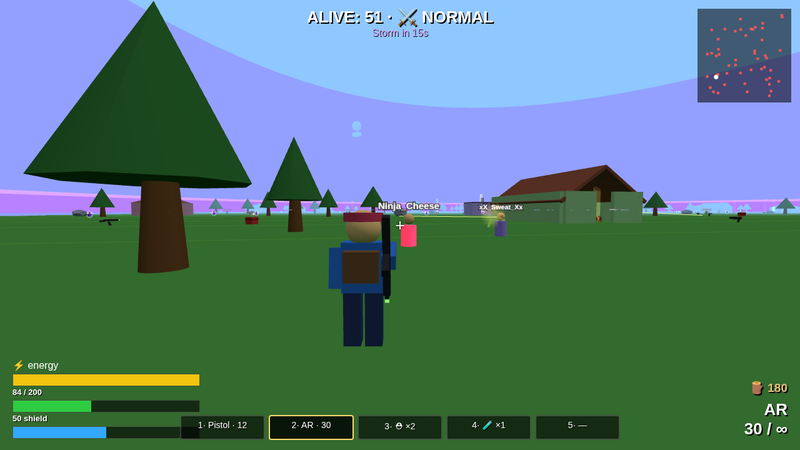
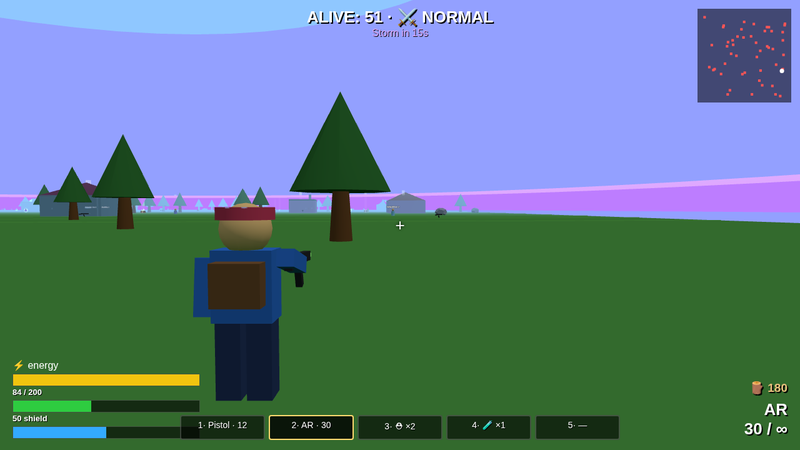
player now faces where he walks - the gun was pointing out of his back. added eyes and a cap peak so front is obvious, new card shot

diff --git a/games/fortnite-3d.html b/games/fortnite-3d.html
@@ -1186,9 +1186,16 @@ function buildPlayerChar() {
   const armL = limb(.19, .6, .19, shirt, true); armL.position.set(-.4, 1.48, 0);
   const armR = limb(.19, .6, .19, shirt, true); armR.position.set(.4, 1.48, 0);
   const head = new THREE.Mesh(new THREE.SphereGeometry(.27, 12, 10), skin); head.position.y = 1.78;
+  // two eyes and a cap peak so you can always tell which way he is looking
+  const eyeMat = new THREE.MeshLambertMaterial({ color: 0x22252b });
+  const eyeL = new THREE.Mesh(new THREE.BoxGeometry(.06, .07, .04), eyeMat); eyeL.position.set(-.1, .05, -.25);
+  const eyeR = new THREE.Mesh(new THREE.BoxGeometry(.06, .07, .04), eyeMat); eyeR.position.set(.1, .05, -.25);
+  head.add(eyeL, eyeR);
   const cap = new THREE.Mesh(new THREE.CylinderGeometry(.3, .3, .13, 12), new THREE.MeshLambertMaterial({ color: 0xd43f5e }));
   cap.position.y = 1.94;
-  const hand = new THREE.Object3D(); hand.position.set(0, -.6, .08); armR.add(hand);
+  const peak = new THREE.Mesh(new THREE.BoxGeometry(.3, .05, .18), new THREE.MeshLambertMaterial({ color: 0xbf3350 }));
+  peak.position.set(0, -.05, -.28); cap.add(peak);
+  const hand = new THREE.Object3D(); hand.position.set(0, -.62, 0); armR.add(hand);
   const chute = new THREE.Group();
   const canopy = new THREE.Mesh(new THREE.SphereGeometry(1.6, 16, 8, 0, 6.283, 0, 1.25),
     new THREE.MeshLambertMaterial({ color: 0xff8a3c, side: THREE.DoubleSide }));
@@ -1257,9 +1264,11 @@ function updatePlayerChar(dt, moving, sprint) {
   u.legR.rotation.x = grounded ? -sw : .25;
   const held = player.slots[player.cur];
   const aiming = held && held.type === 'weapon';
-  u.armR.rotation.x = aiming ? -1.35 : (grounded && moving ? -sw * .7 : -.1);
-  u.armL.rotation.x = grounded && moving ? sw * .7 : -.1;
-  u.head.rotation.x = clamp(-pitch * .3, -.5, .5);
+  // arms swing opposite the legs, and the gun arm reaches FORWARD (+X tilts a hanging limb
+  // toward where you are looking) and lifts with your aim
+  u.armR.rotation.x = aiming ? 1.35 + clamp(pitch, -.9, .9) : (grounded && moving ? sw * .7 : -.1);
+  u.armL.rotation.x = grounded && moving ? -sw * .7 : -.1;
+  u.head.rotation.x = clamp(pitch * .3, -.5, .5);
 }
 
 // whatever is in the active slot shows up in the hand, same as the first-person view
@@ -1273,12 +1282,17 @@ function updateHandItem() {
   handItem = null;
   if (!s) return;
   let m;
-  if (s.type === 'weapon') { m = buildGunModel(s.id); m.rotation.set(0, Math.PI / 2, 0); m.scale.setScalar(.85); }
+  if (s.type === 'weapon') {
+    // the arm reaches out level with the ground, so the gun gets a matching counter-tilt
+    // and then rides with your aim as the arm lifts
+    m = buildGunModel(s.id); m.rotation.set(-1.35, Math.PI / 2, 0); m.scale.setScalar(.85);
+    m.position.set(0, -.08, -.06);
+  }
   else if (s.type === 'medkit') { m = buildMedkit(); m.rotation.set(-.5, .5, 0); m.scale.setScalar(.5); }
   else if (s.type === 'shield') { m = buildShield(false); m.rotation.set(.2, -.4, 0); m.scale.setScalar(.4); }
   else if (s.type === 'orger') { m = buildOrgerItem(false); m.scale.setScalar(.4); }
   else { m = buildTntItem(false); m.scale.setScalar(.35); }
-  m.position.set(0, -.55, .12);
+  if (s.type !== 'weapon') m.position.set(0, -.18, .12);
   handItem = m;
   handItem._key = key;
   hand.add(m);
